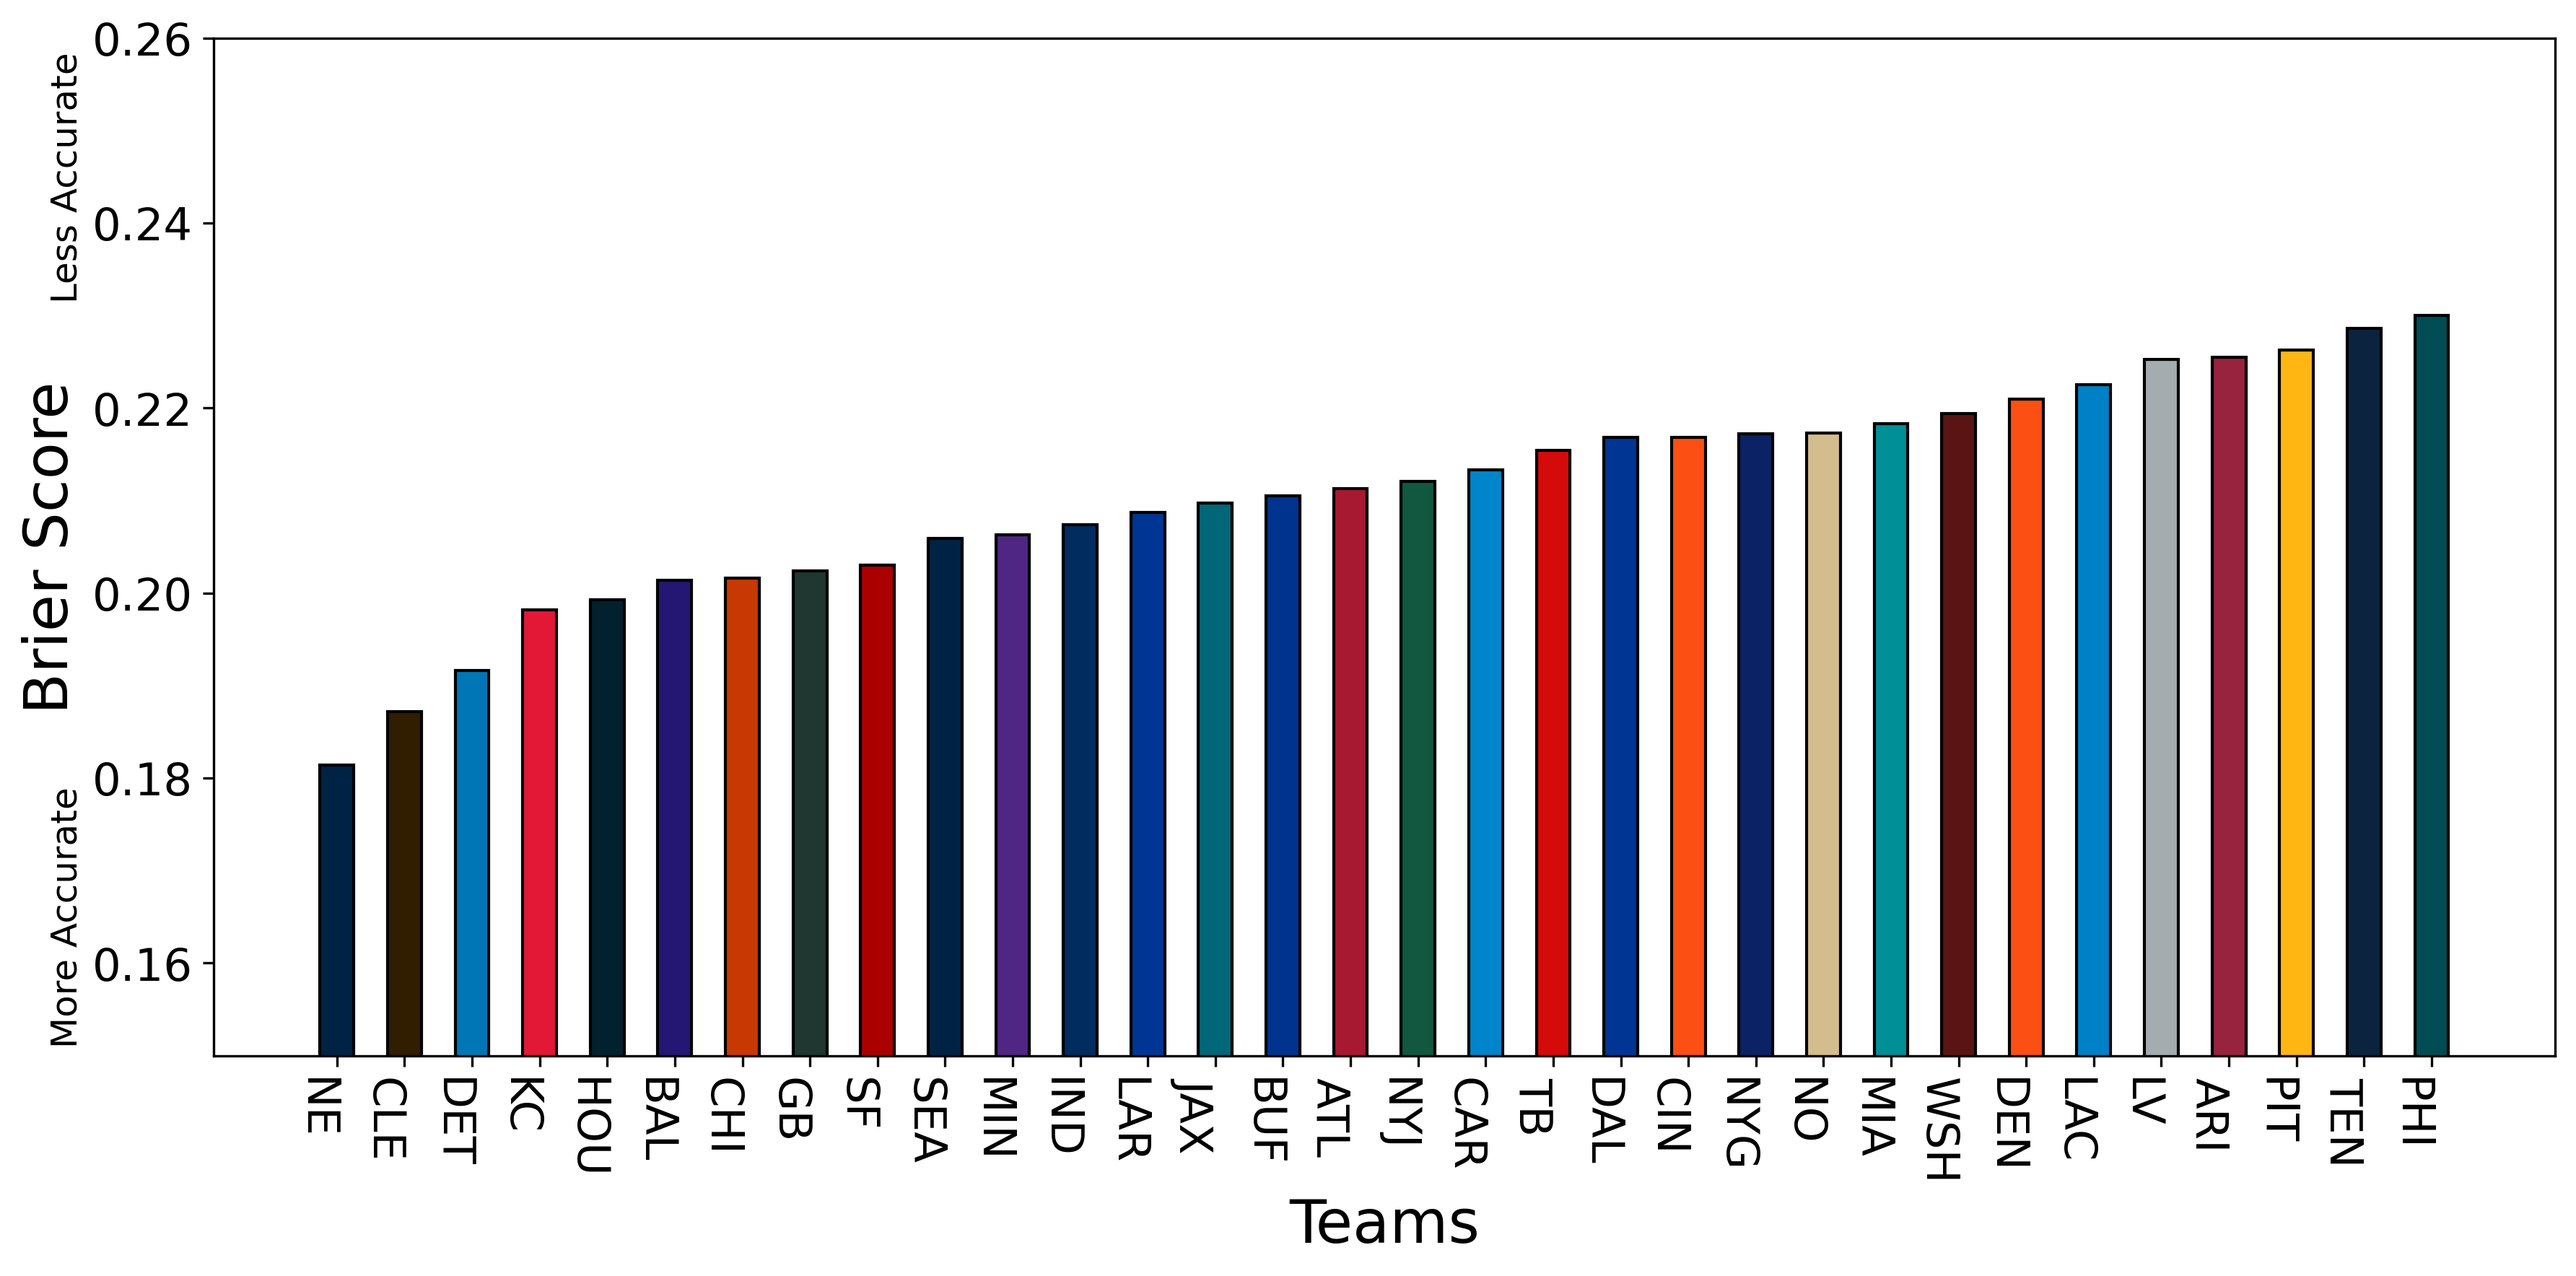
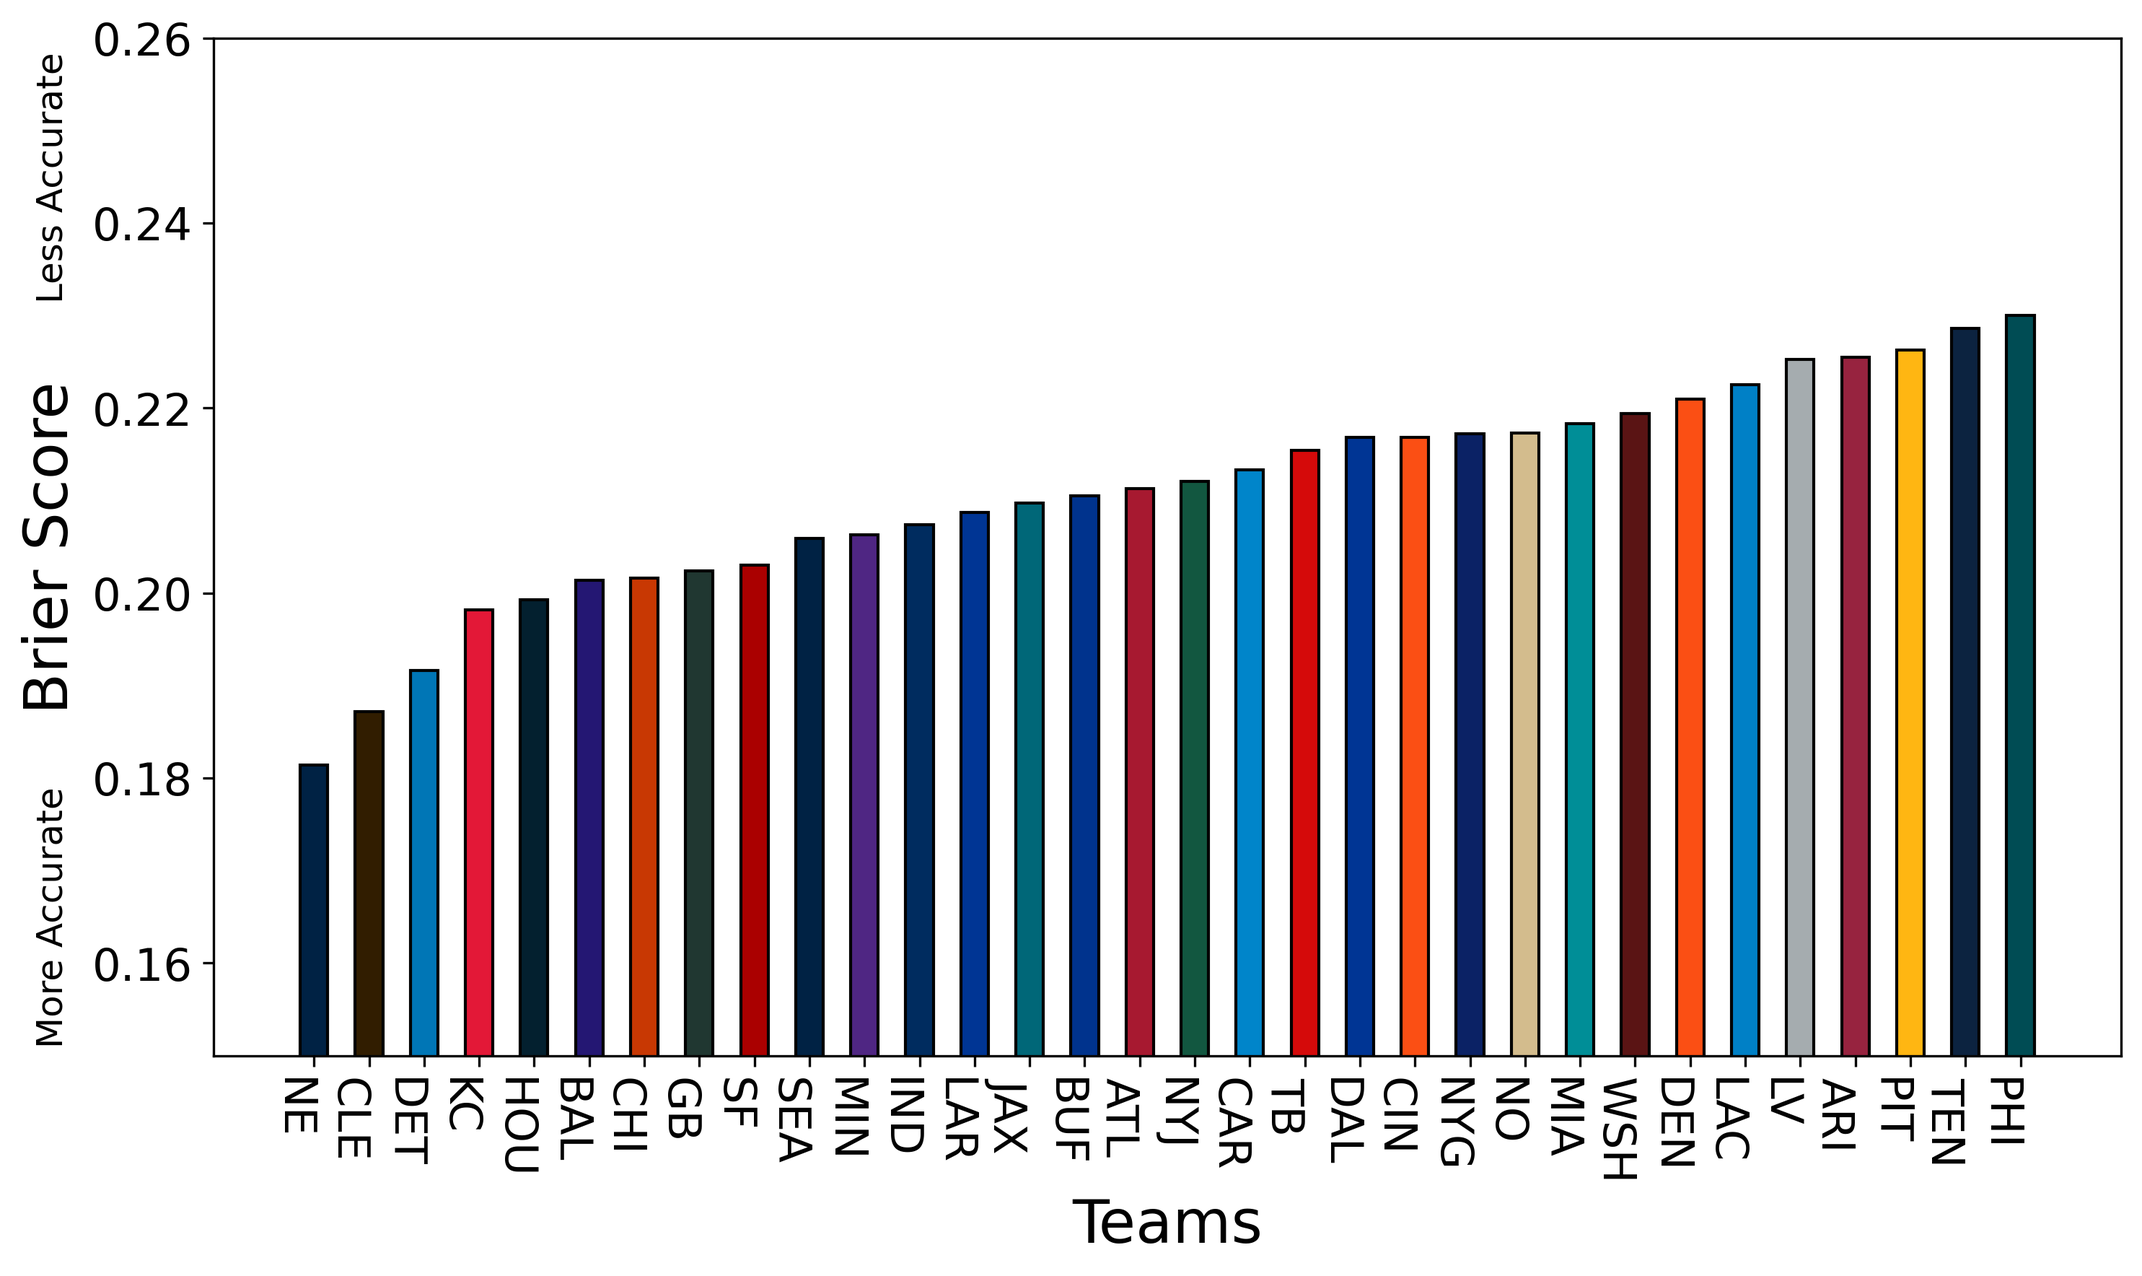
figure changing

diff --git a/src/graphing/brier_score_by_model.py b/src/graphing/brier_score_by_model.py
@@ -2,30 +2,28 @@ import pandas as pd
 import matplotlib.pyplot as plt
 
 results_df = pd.read_csv("results/nfl_by_model.csv")
-
 results_df = results_df.sort_values(by="season")
 
-season_years = results_df["season"].str.split("_").str[1]
-
+all_years = [str(year) for year in range(2009,2022)]
 
 plt.figure(figsize=(10, 6))
 
-plt.plot(results_df["season"], results_df["moneyline_brier_score"], label="Betting Market", marker='o', color='green',linewidth=3,markersize=10)
-plt.plot(results_df["season"], results_df["elo_brier_score"], label="Elo Model", marker='o', color='magenta',linewidth=3,markersize=10)
-plt.plot(results_df["season"], results_df["baseline_brier_score"], label="Home Bias Coinflip Model", marker='o', color='cyan',linewidth=3,markersize=10)
-plt.plot(results_df["season"], [0.25]*len(results_df["season"]), label="Coinflip Model", marker='o',color='black',linewidth=3,markersize=10)
+plt.plot(results_df["season"], results_df["moneyline_brier_score"], label="Betting Market", marker='o', color='green', linewidth=3, markersize=10)
+plt.plot(results_df["season"], results_df["elo_brier_score"], label="Elo Model", marker='o', color='magenta', linewidth=3, markersize=10)
+plt.plot(results_df["season"], results_df["baseline_brier_score"], label="Home Bias Coinflip Model", marker='o', color='cyan', linewidth=3, markersize=10)
+plt.plot(results_df["season"], [0.25] * len(results_df["season"]), label="Coinflip Model", marker='o', color='black', linewidth=3, markersize=10)
 
-plt.xticks(ticks=range(len(results_df["season"])), labels=season_years, rotation=45)
-plt.ylim(0.15,0.26)
-plt.xlabel("Season",fontsize=20)
+all_years = sorted(all_years)
+plt.xticks(ticks=range(len(all_years)), labels=all_years, rotation=0)
+plt.ylim(0.15, 0.26)
+plt.xlabel("Season", fontsize=20)
 plt.ylabel("Brier Score", fontsize=20)
-plt.text(-1.7, 0.245, "Less Accurate", fontsize=12, ha='center', va='center',rotation=90)
+plt.text(-1.7, 0.245, "Less Accurate", fontsize=12, ha='center', va='center', rotation=90)
 plt.text(-1.7, 0.165, "More Accurate", fontsize=12, ha='center', va='center', rotation=90)
 plt.legend(fontsize=15)
 plt.grid(True)
 plt.tick_params(axis='both', which='major', labelsize=15)
 
-
 plt.tight_layout()
-
 plt.savefig("figures/brier_score_by_model.png", dpi=300, bbox_inches='tight')
+plt.close()

diff --git a/src/graphing/nfl_calibration.py b/src/graphing/nfl_calibration.py
@@ -4,7 +4,6 @@ from sklearn.calibration import calibration_curve
 
 file_path = "processed_data/nfl_espn_combined_with_elo.csv"
 df = pd.read_csv(file_path)
-
 df = df[df[['avg_prob_1', 'elo_prob_1']].notnull().all(axis=1)]
 
 c1 = df["avg_prob_1"]
@@ -15,9 +14,10 @@ prob_true1, prob_pred1 = calibration_curve(actual_results, c1, n_bins=10, strate
 prob_true2, prob_pred2 = calibration_curve(actual_results, c2, n_bins=10, strategy='uniform')
 
 plt.figure(figsize=(10, 6))
-plt.plot(prob_pred1, prob_true1, marker='o', label='Betting Market Model', color='green')
-plt.plot(prob_pred2, prob_true2, marker='s', label='Elo Model', color='magenta')
-plt.plot([0, 1], [0, 1], linestyle='--', color='gray', label='Perfect Calibration')
+
+plt.plot(prob_pred1, prob_true1, marker='o', label='Betting Market Model', color='green',linewidth=3, markersize=10)
+plt.plot(prob_pred2, prob_true2, marker='o', label='Elo Model', color='magenta',linewidth=3, markersize=10)
+plt.plot([0, 1], [0, 1], linestyle='--', color='gray', label='Perfect Calibration',linewidth=3, markersize=10)
 
 plt.xlim(0, 1)
 plt.ylim(0, 1)
@@ -25,7 +25,8 @@ plt.xlabel('Predicted Win Probability', fontsize=20)
 plt.ylabel('Actual Win Frequency', fontsize=20)
 plt.legend(fontsize=15)
 plt.grid(True, linestyle='--', alpha=0.6)
+plt.tick_params(axis='both', which='major', labelsize=15)
 
 plt.tight_layout()
 plt.savefig("figures/nfl_calibration_plot.png", dpi=300, bbox_inches='tight')
-plt.show()
+plt.close()

diff --git a/src/graphing/by_team_sorted.py b/src/graphing/by_team_sorted.py
@@ -23,7 +23,7 @@ x_labels = df.iloc[:, 0]
 x = np.arange(num_rows)
 bar_width = 0.5
 
-fig, ax = plt.subplots(figsize=(12, 6))
+fig, ax = plt.subplots(figsize=(10, 6))
 bars = ax.bar(
     x, 
     df.iloc[:, 1], 
@@ -40,8 +40,8 @@ plt.tick_params(axis='y', which='major', labelsize=15)
 
 plt.ylim(0.15, 0.26)
 
-plt.text(-4, 0.245, "Less Accurate", fontsize=12, ha='center', va='center',rotation=90)
-plt.text(-4, 0.165, "More Accurate", fontsize=12, ha='center', va='center', rotation=90)
+plt.text(-4.75, 0.245, "Less Accurate", fontsize=12, ha='center', va='center',rotation=90)
+plt.text(-4.75, 0.165, "More Accurate", fontsize=12, ha='center', va='center', rotation=90)
 
 plt.tight_layout()
 

diff --git a/src/graphing/overall_seasonal.py b/src/graphing/overall_seasonal.py
@@ -21,7 +21,7 @@ for i, file_path in enumerate(file_paths):
 
 
 all_years = sorted(all_years)
-plt.xticks(ticks=range(len(all_years)), labels=all_years, rotation=45)
+plt.xticks(ticks=range(len(all_years)), labels=all_years, rotation=0)
 
 plt.ylim(0.15, 0.26)
 
